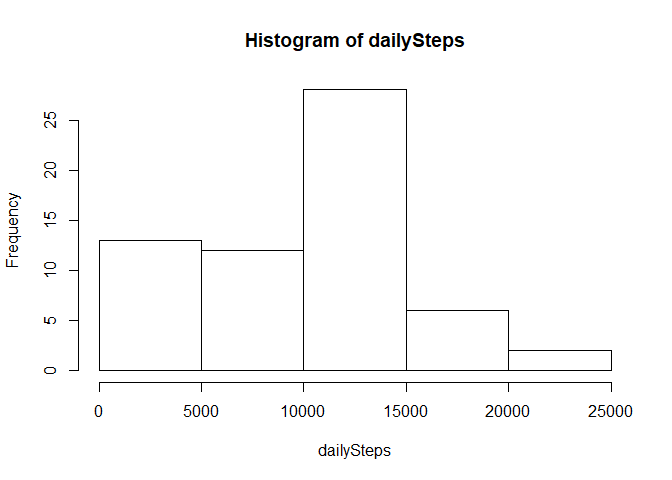
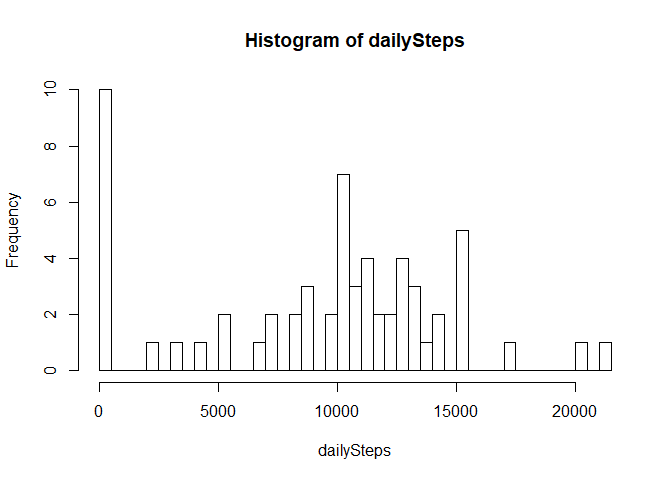
Modify hist()
Modify hist()

diff --git a/PA1_template.html b/PA1_template.html
@@ -137,8 +137,8 @@ rawData$date = as.Date(rawData$date, &quot;%Y-%m-%d&quot;)</code></pre>
 <div id="what-is-mean-total-number-of-steps-taken-per-day" class="section level2">
 <h2>What is mean total number of steps taken per day?</h2>
 <pre class="r"><code>dailySteps = tapply(as.numeric(rawData$steps), rawData$date, sum, na.rm = TRUE)
-hist(dailySteps)</code></pre>
[1 lines of base64/hex data omitted]
+hist(dailySteps, breaks = 50)</code></pre>
[1 lines of base64/hex data omitted]
 <pre class="r"><code>summary(dailySteps) # Contains median and mean</code></pre>
 <pre><code>##    Min. 1st Qu.  Median    Mean 3rd Qu.    Max. 
 ##       0    6778   10395    9354   12811   21194</code></pre>
@@ -163,8 +163,8 @@ adjData$steps[is.na(adjData$steps)] = tapply(as.numeric(adjData$steps), adjData$
 
 adjDailySteps = tapply(as.numeric(adjData$steps), adjData$date, sum, na.rm = TRUE)
 ## histogram
-hist(adjDailySteps)</code></pre>
[1 lines of base64/hex data omitted]
+hist(adjDailySteps, breaks = 50)</code></pre>
[1 lines of base64/hex data omitted]
 <pre class="r"><code>## Mean and median
 summary(adjDailySteps)</code></pre>
 <pre><code>##    Min. 1st Qu.  Median    Mean 3rd Qu.    Max. 

diff --git a/PA1_template.md b/PA1_template.md
@@ -35,7 +35,7 @@ rawData$date = as.Date(rawData$date, "%Y-%m-%d")
 
 ```r
 dailySteps = tapply(as.numeric(rawData$steps), rawData$date, sum, na.rm = TRUE)
-hist(dailySteps)
+hist(dailySteps, breaks = 50)
 ```
 
 ![](PA1_template_files/figure-html/unnamed-chunk-2-1.png)<!-- -->
@@ -90,7 +90,7 @@ adjData$steps[is.na(adjData$steps)] = tapply(as.numeric(adjData$steps), adjData$
 
 adjDailySteps = tapply(as.numeric(adjData$steps), adjData$date, sum, na.rm = TRUE)
 ## histogram
-hist(adjDailySteps)
+hist(adjDailySteps, breaks = 50)
 ```
 
 ![](PA1_template_files/figure-html/unnamed-chunk-5-1.png)<!-- -->
